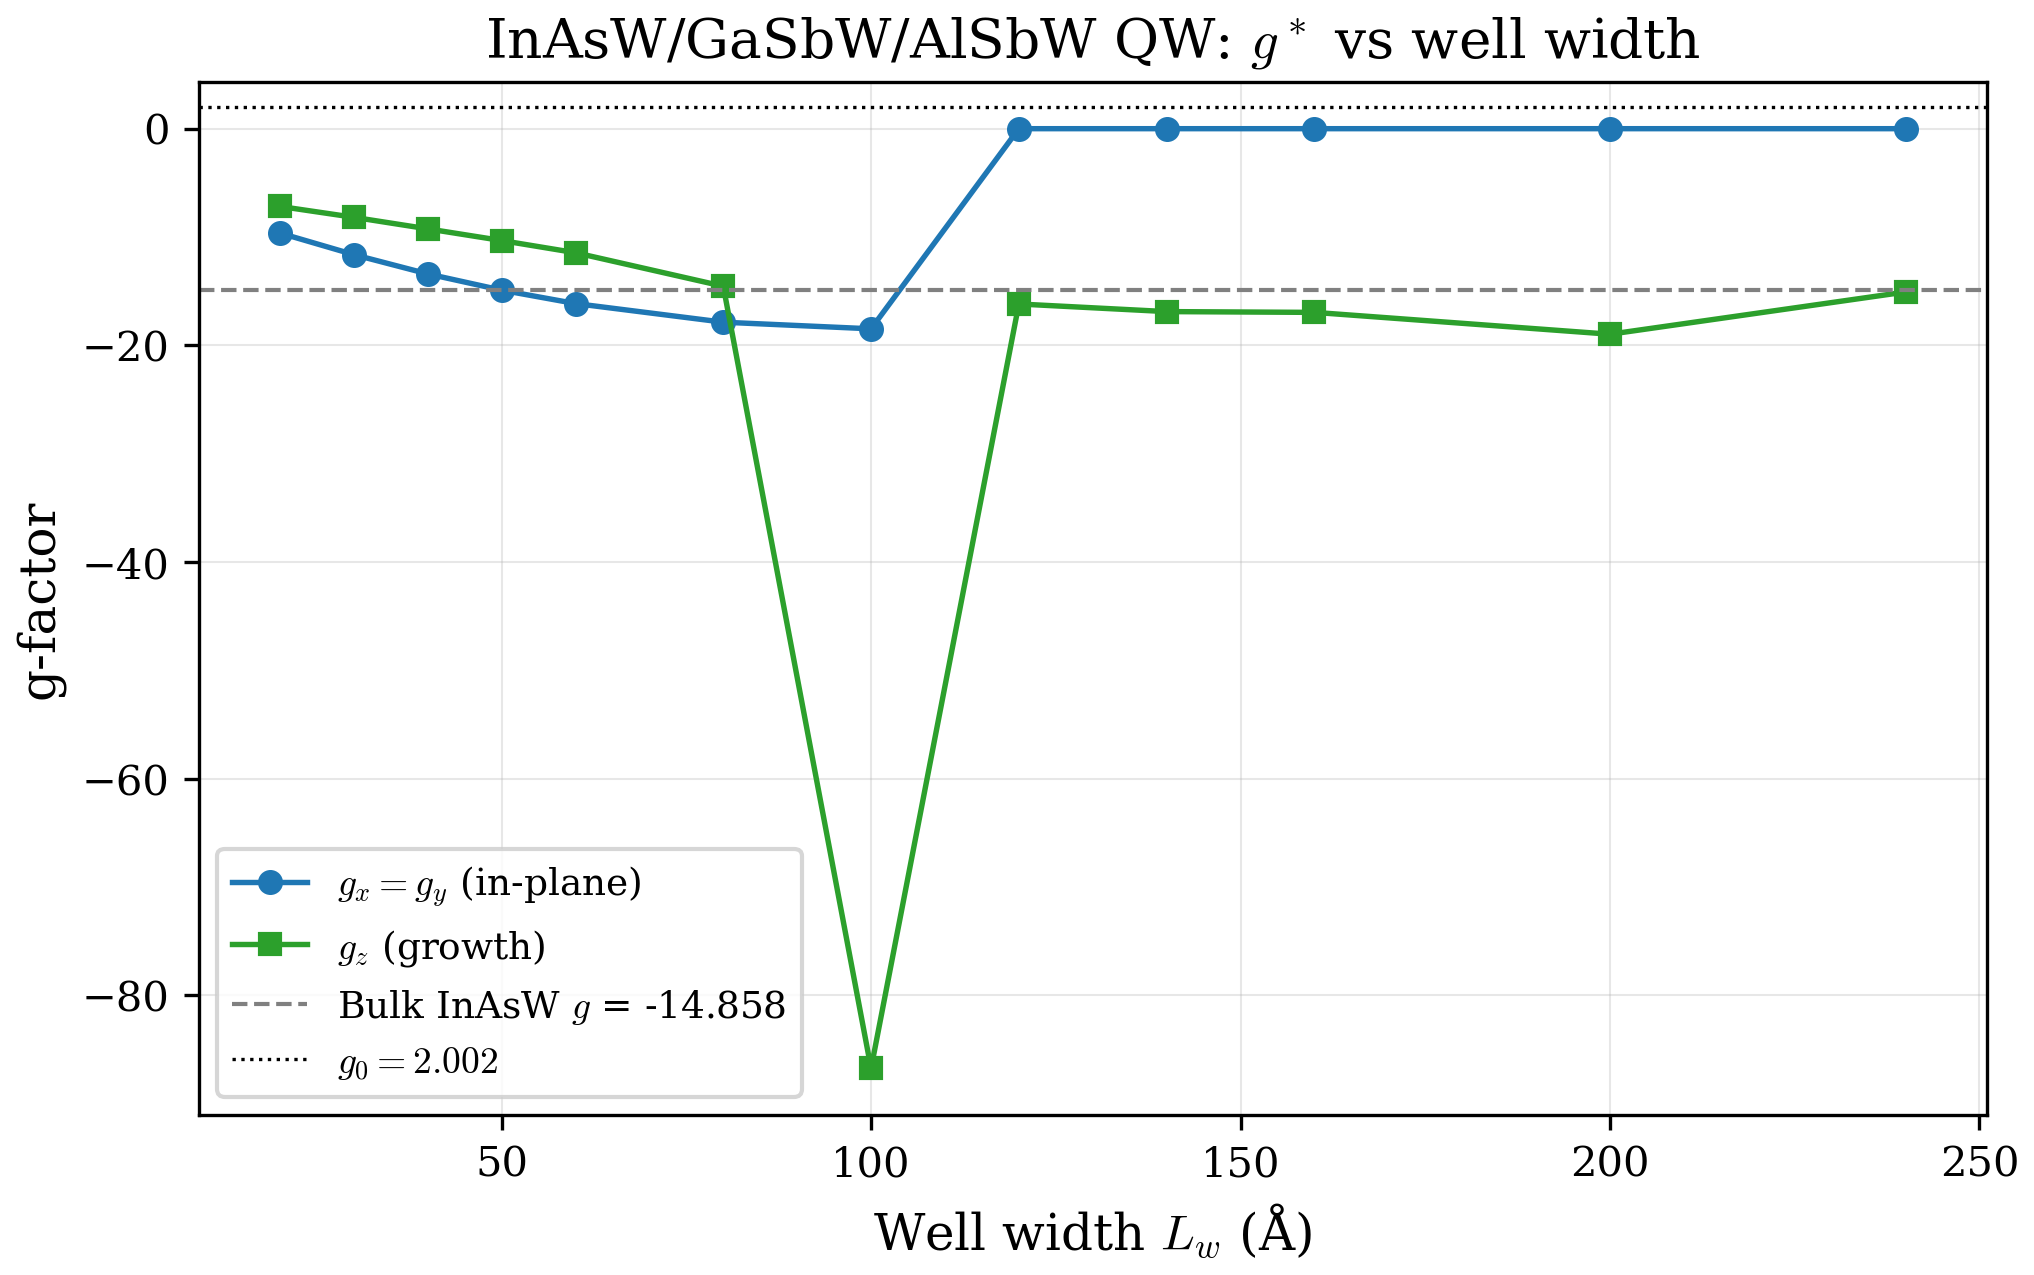
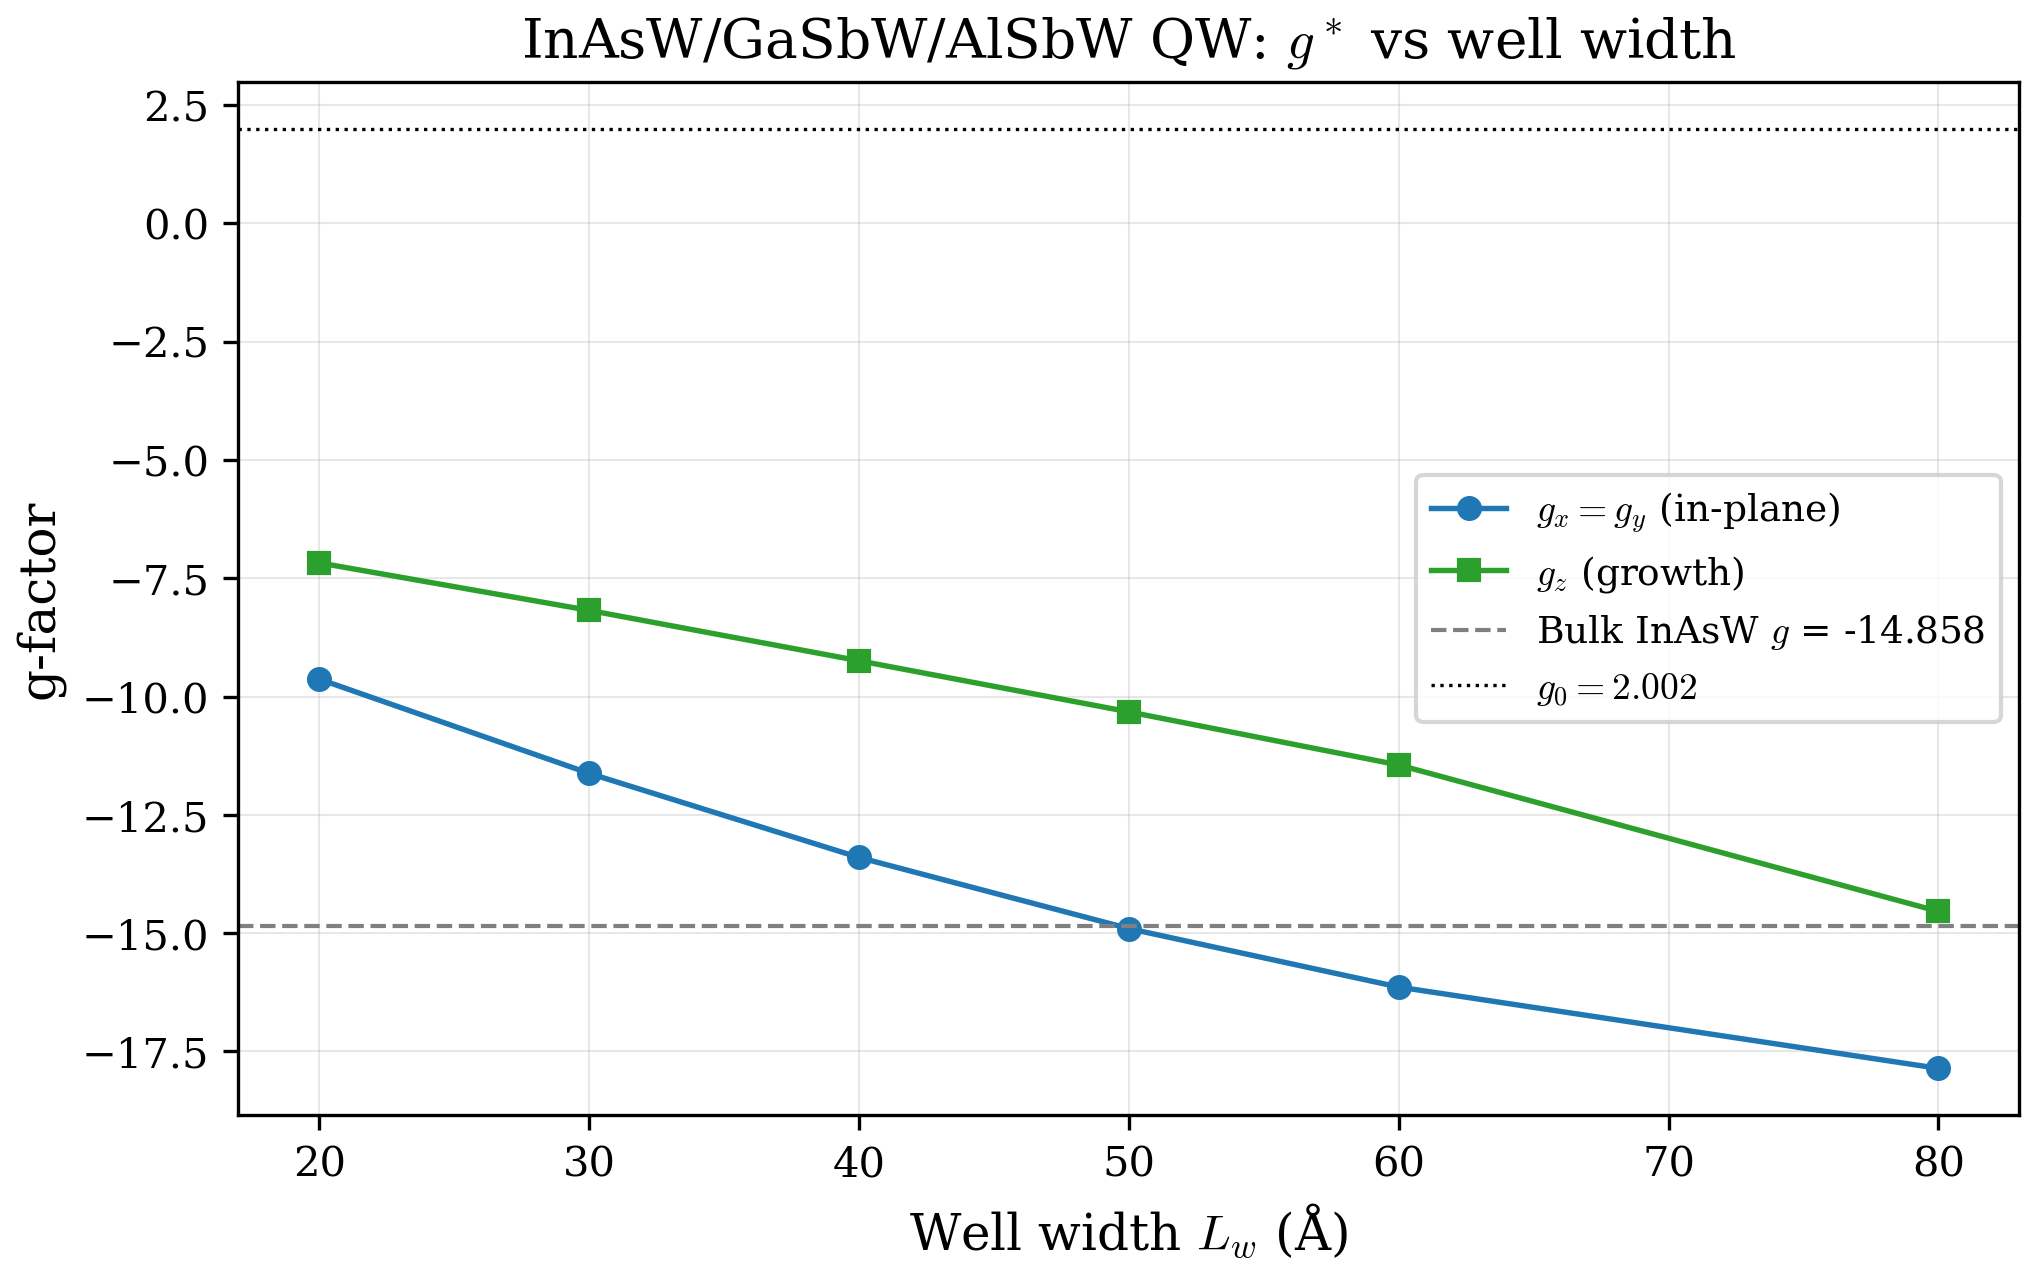
fix: trim g-factor figure ranges to avoid ill-conditioned points
QW: restrict to hw<=40 to avoid near-zero Lowdin denominators from
InAsW/GaSbW broken-gap alignment contaminating gz. Wire: restrict
to >=50 Å to avoid ill-conditioned sigma matrix from extreme confinement.

diff --git a/scripts/plotting/generate_all_figures.py b/scripts/plotting/generate_all_figures.py
@@ -5493,7 +5493,9 @@ def fig_wire_gfactor_vs_size(output_dir: Path) -> None:
     """
     print("[figure] wire_gfactor_vs_size")
 
-    sizes = [40, 50, 60, 80, 100]
+    # Very narrow wires (<50 Å) give ill-conditioned sigma matrices with
+    # tiny transverse spin components, producing spurious gx >> 100.
+    sizes = [50, 60, 80, 100]
     gx_list: List[float] = []
     gy_list: List[float] = []
     gz_list: List[float] = []
@@ -5793,7 +5795,11 @@ def fig_qw_gfactor_vs_width(output_dir: Path) -> None:
     """
     print("[figure] qw_gfactor_vs_width")
 
-    half_widths = [10, 15, 20, 25, 30, 40, 50, 60, 70, 80, 100, 120]
+    # Wide wells (hw>40) hit near-zero energy denominators in Lowdin
+    # partitioning due to the InAsW/GaSbW broken-gap alignment: CB and VB
+    # states become nearly degenerate, contaminating gz.  Restrict to
+    # half-widths where the denominators stay well-behaved.
+    half_widths = [10, 15, 20, 25, 30, 40]
     gx_list: List[float] = []
     gy_list: List[float] = []
     gz_list: List[float] = []
